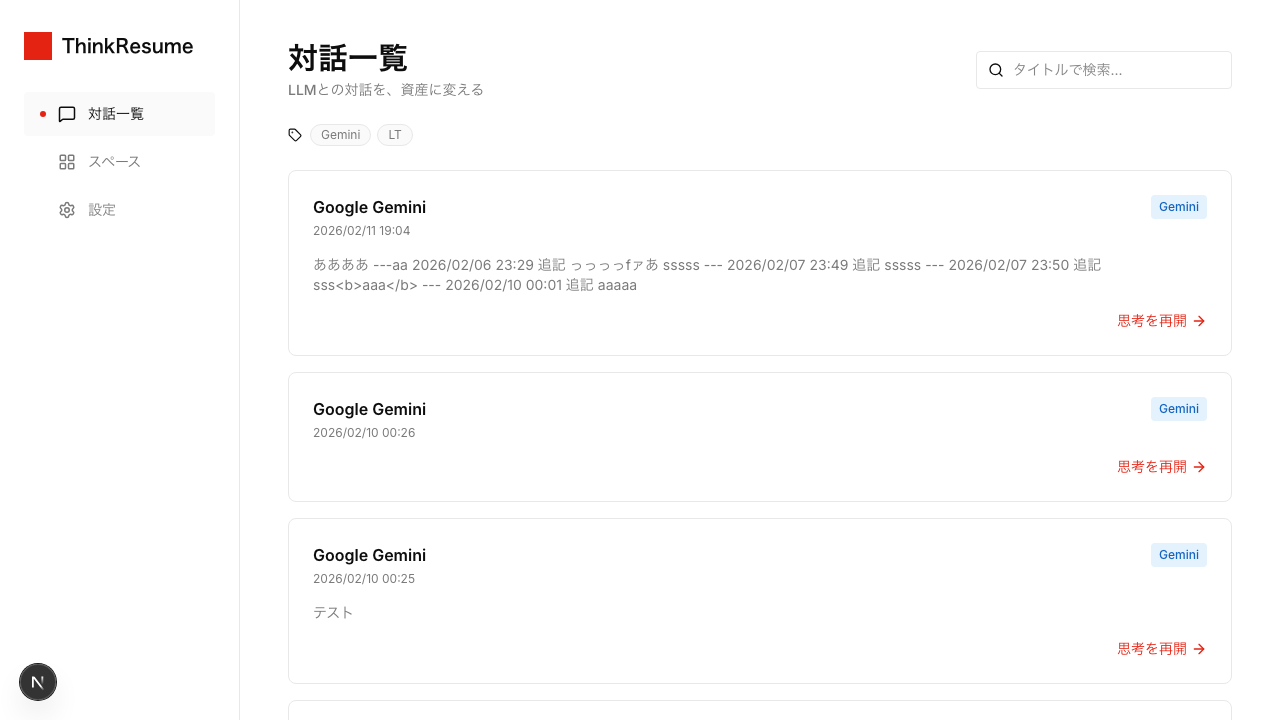
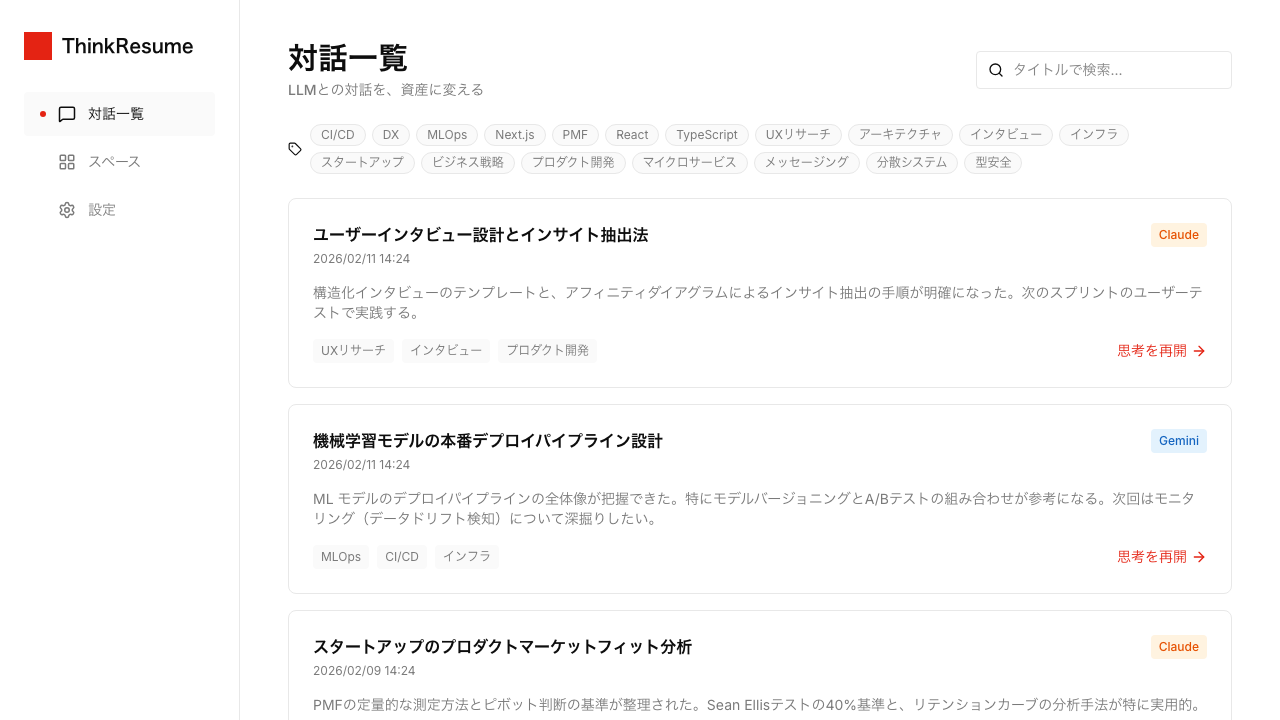
docs: README更新（スクリーンショット差替・対応状況明記・デモデータ手順追加）
- スクリーンショット4枚をデモデータで撮り直し（スペース詳細を新規追加）
- 「現在の対応状況」テーブルでGeminiのみキャプチャ対応と明記
- デモデータ投入スクリプトの使い方をローカル開発セクションに追加
- プロジェクト構成にscripts/を追加

diff --git a/README.md b/README.md
@@ -29,26 +29,43 @@ LLMとの対話は「使い捨て」になりがちです。
 | **メモ・追記** | 保存した対話にメモを追記し、思考のコンテキストを補強 |
 | **タグ・検索** | タグとキーワードで保存した対話を整理・検索 |
 
+### 現在の対応状況
+
+| プラットフォーム | 対話キャプチャ（Chrome拡張） | 思考再開（Web） |
+|-----------------|---------------------------|----------------|
+| **Gemini** | **対応済み** | **対応済み** |
+| ChatGPT | 未対応（計画中） | 保存済みデータの閲覧・思考再開は可能 |
+| Claude | 未対応（計画中） | 保存済みデータの閲覧・思考再開は可能 |
+
+> **Note**: Chrome拡張による対話キャプチャは現在 **Gemini のみ** に対応しています。ChatGPT・Claude の対話は、Gemini 経由で保存した後に Web 画面から閲覧・思考再開が可能です。
+
 ---
 
 ## スクリーンショット
 
-### Web管理画面
+### 対話一覧
 
-| 対話一覧 | 思考再開 |
-|----------|----------|
-| ![対話一覧](doc/images/web-conversations.png) | ![思考再開](doc/images/web-think-resume.png) |
+保存した対話をソース別バッジ（ChatGPT / Claude / Gemini）・タグ・メモ付きで一覧表示。キーワード検索・タグフィルタに対応。
 
-| スペース一覧 |
-|-------------|
-| ![スペース一覧](doc/images/web-spaces.png) |
+![対話一覧](doc/images/web-conversations.png)
 
-### Chrome拡張（ポップアップ）
+### 思考再開（対話詳細）
 
-<!-- TODO: 実際のスクリーンショットに差し替え -->
-![拡張機能ポップアップ](doc/images/extension-popup.png)
+保存した対話履歴・メモ・洞察を確認しながら、右パネルの Gemini チャットで思考を再開。重要なやり取りは「洞察として保存」できる。
 
-対話ページで拡張アイコンをクリックすると、AIがタイトル・メモ・タグを自動生成。確認・編集して保存できます。
+![思考再開](doc/images/web-think-resume.png)
+
+### スペース一覧
+
+関連する対話をグループ化した「スペース」を作成・管理。
+
+![スペース一覧](doc/images/web-spaces.png)
+
+### スペース詳細
+
+スペース内の複数対話を統合コンテキストとして Gemini に渡し、横断的に思考を継続。
+
+![スペース詳細](doc/images/web-space-detail.png)
 
 ---
 
@@ -123,8 +140,7 @@ VITE_API_BASE_URL=<デモURL> pnpm --filter @zenn-hackathon04/extension build
 3. タイトル・メモ・タグを確認し、必要に応じて編集
 4. **「保存する」** をクリック → デモ環境に保存され、Web画面で確認できます
 
-> **補足**: 拡張機能のポップアップ（DOM解析・フォーム表示）はバックエンドなしで動作します。
-> 「保存する」ボタンを押す際にのみ Web API への接続が必要です。
+> **補足**: 現時点でChrome拡張の対話キャプチャは **Gemini のみ** に対応しています。ChatGPT・Claude への対応は今後のアップデートで追加予定です。
 
 ---
 
@@ -160,6 +176,14 @@ pnpm --filter @zenn-hackathon04/web exec tsc --noEmit # 型チェック（Web）
 pnpm --filter @zenn-hackathon04/shared lint           # 型チェック（shared）
 ```
 
+### デモデータの投入
+
+スクリーンショット・デモ向けのテストデータを投入できます（既存データは削除されます）：
+
+```bash
+NODE_PATH=apps/web/node_modules npx tsx scripts/seed-demo-data.ts
+```
+
 ---
 
 ## プロジェクト構成
@@ -173,6 +197,8 @@ ZennHackathon04/
 │       └── entrypoints/  # content.ts, background.ts, popup/
 ├── packages/
 │   └── shared/           # 共通型定義（Zod スキーマ）
+├── scripts/
+│   └── seed-demo-data.ts # デモデータ投入スクリプト
 └── doc/                  # ドキュメント・デザイン
 ```
 
